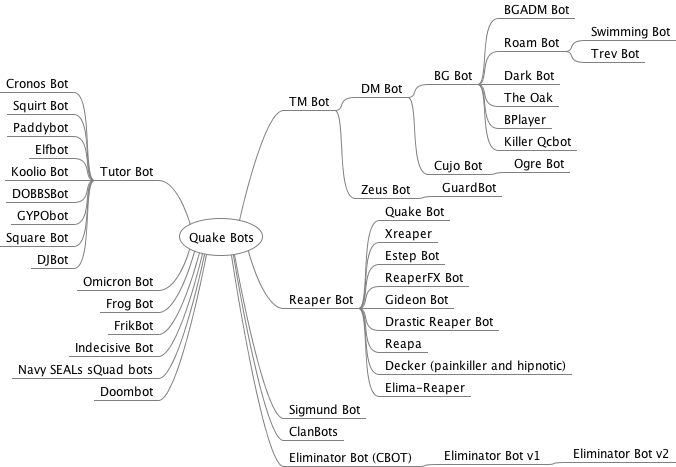
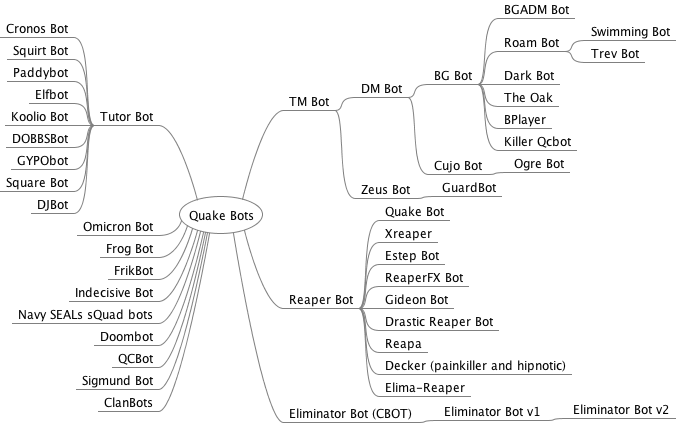
added qcbot

Changed region(s): [[0.0, 0.0, 1.0, 1.0], [0.3728, 0.2766, 0.4038, 0.3688]]

diff --git a/mindmap/QuakeBots.mm b/mindmap/QuakeBots.mm
@@ -47,9 +47,7 @@
 <node CREATED="1622683913824" ID="ID_329641328" MODIFIED="1622683927792" TEXT="Decker (painkiller and hipnotic)"/>
 <node CREATED="1622765296654" ID="ID_18028651" MODIFIED="1622765297924" TEXT="Elima-Reaper"/>
 </node>
-<node CREATED="1622673974992" ID="ID_836172168" MODIFIED="1622673977254" POSITION="right" TEXT="Sigmund Bot"/>
 <node CREATED="1622675037053" ID="ID_1770647602" MODIFIED="1622675039068" POSITION="left" TEXT="Indecisive Bot"/>
-<node CREATED="1622675710420" ID="ID_315019417" MODIFIED="1622675711964" POSITION="right" TEXT="ClanBots"/>
 <node CREATED="1622682184306" ID="ID_1458910225" MODIFIED="1622682185577" POSITION="left" TEXT="Navy SEALs sQuad bots"/>
 <node CREATED="1622759700522" ID="ID_678656323" MODIFIED="1622761575130" POSITION="right" TEXT="Eliminator Bot (CBOT)">
 <node CREATED="1622760633864" ID="ID_468304243" MODIFIED="1622760636889" TEXT="Eliminator Bot v1">
@@ -57,5 +55,8 @@
 </node>
 </node>
 <node CREATED="1622763861240" ID="ID_654537966" MODIFIED="1622763862709" POSITION="left" TEXT="Doombot"/>
+<node CREATED="1622766138991" ID="ID_536684272" MODIFIED="1622766140603" POSITION="left" TEXT="QCBot"/>
+<node CREATED="1622673974992" ID="ID_836172168" MODIFIED="1622673977254" POSITION="left" TEXT="Sigmund Bot"/>
+<node CREATED="1622675710420" ID="ID_315019417" MODIFIED="1622675711964" POSITION="left" TEXT="ClanBots"/>
 </node>
 </map>

diff --git a/README.md b/README.md
@@ -46,6 +46,7 @@ Oak Bot | John Crickett and Neil Henderson | [oak0405.zip](bin/oak0405.zip)
 Ogre Bot | "Lava Man" | [ogrebot.zip](bin/ogrebot.zip)
 Omicron Bot | J.M.P. van Waveren aka "Mr. Elusive" | [obots102.zip](bin/obots102.zip)
 Paddybot | "sniper" | paddybot02.zip
+QCBot | Alan Kivlin | ?
 Quake Bot (QBot) | "Grinder" | [qbot11.zip](bin/qbot11.zip)
 Reapa | Terry Hendrix II aka "Mongoose" | ?
 Reaper Bot | Steven Polge | [reaprb81.zip](bin/reaprb81.zip)
@@ -60,3 +61,4 @@ Trevor McDoanld Bot (TrevBot) | Kris O'Shea | [trevbot.zip](bin/trevbot.zip)
 Tutor Bot | Darryl Atchison aka "coffee" | [tutor.zip](bin/tutor.zip)
 Xreaper | ? | xreaperb130.zip
 Zeus Bot | Jonathan E. Wright aka "Nelno the Amoeba" | [zeus205.zip](bin/zeus205.zip)
+
